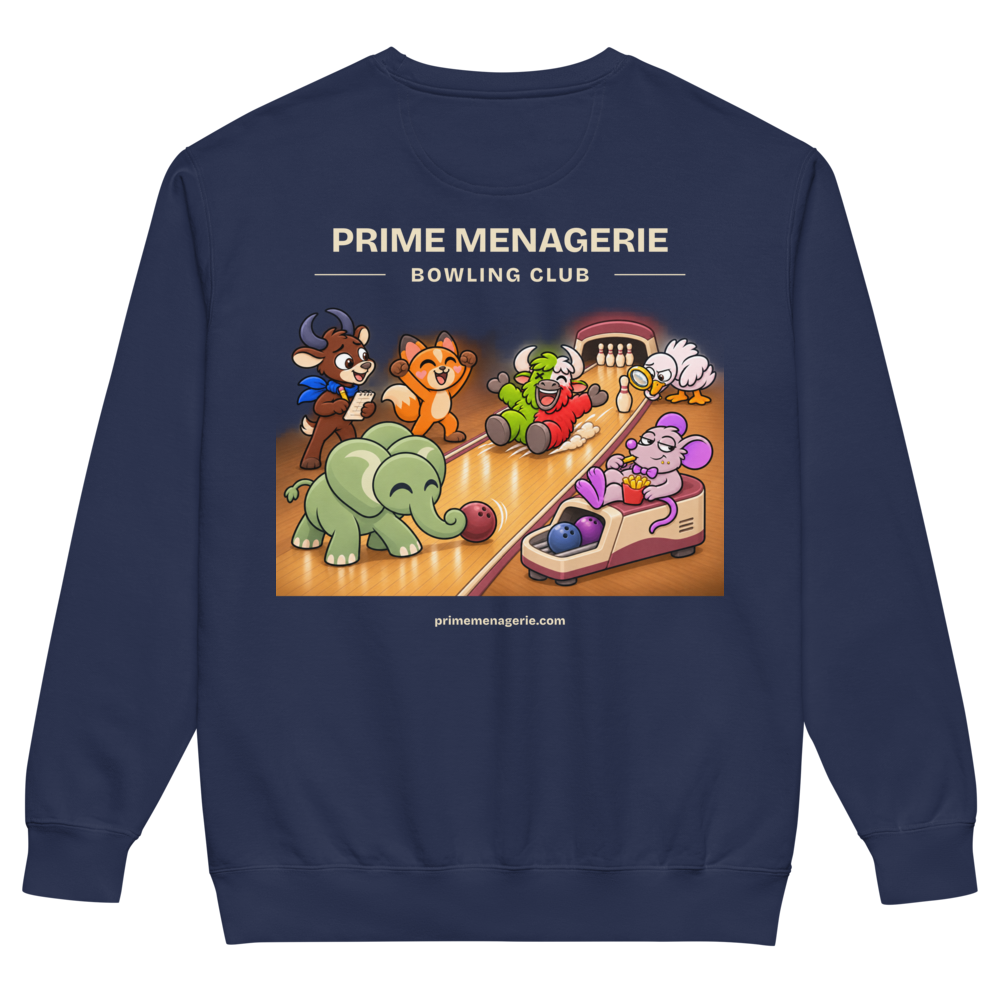
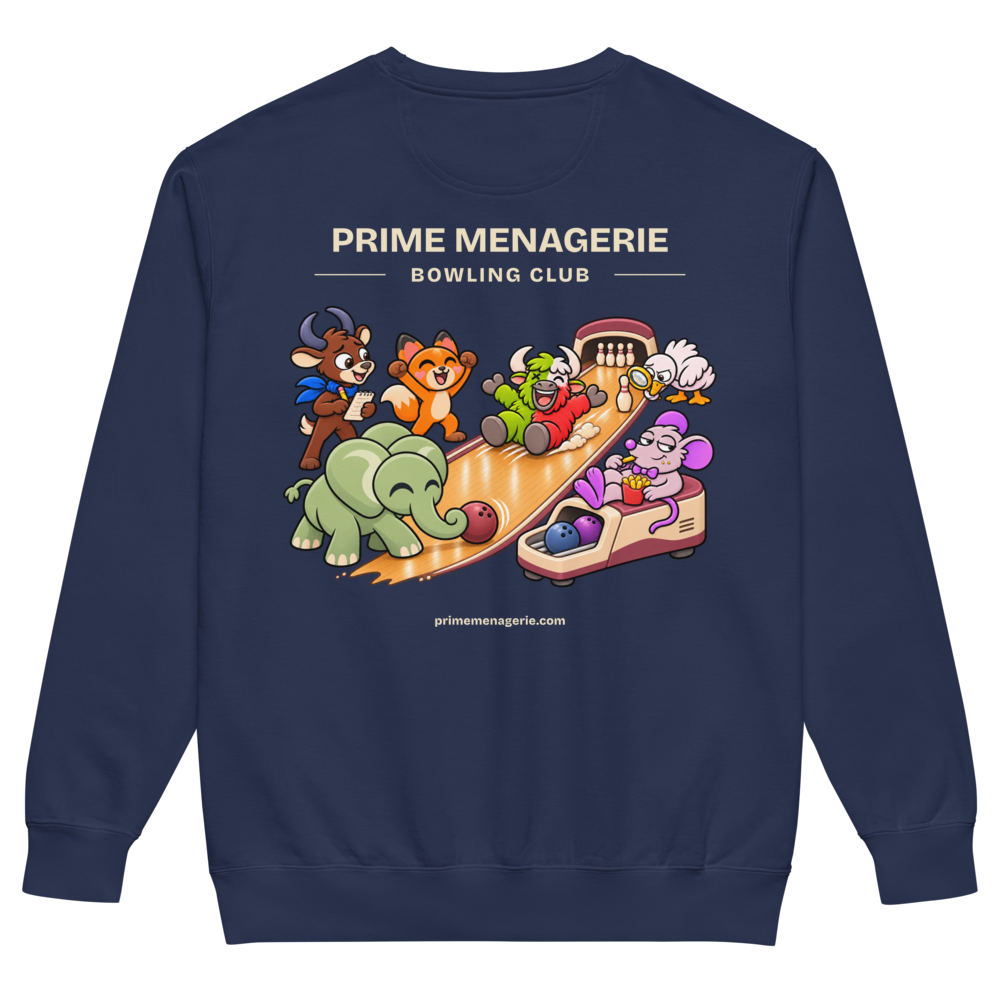
Prepare storefront previews for organic crewneck graphics

Changed region(s): [[0.279, 0.31, 0.744, 0.62]]

diff --git a/src/lib/productPages.ts b/src/lib/productPages.ts
@@ -70,7 +70,7 @@ const KINDS: Record<string, Kind> = {
   },
   menagerieCrewneck: {
     label: 'Garment-dyed crewneck sweatshirt', productType: 'Apparel > Tops > Sweatshirts', apparel: true,
-    facts: ['Comfort Colors 1566, 80% ring-spun cotton and 20% polyester', 'Heavyweight 9.5 oz/yd² fleece with a 100% cotton face', 'Relaxed fit with ribbed collar, cuffs and waistband', 'Blue Spruce, Pepper, True Navy or Butter; garment dye may vary slightly', 'Printed left-chest badge and 15-inch-wide back illustration'],
+    facts: ['Comfort Colors 1566, 80% ring-spun cotton and 20% polyester', 'Heavyweight 9.5 oz/yd² fleece with a 100% cotton face', 'Relaxed fit with ribbed collar, cuffs and waistband', 'Blue Spruce, Pepper, True Navy or Butter; garment dye may vary slightly', 'Printed left-chest badge and 15-inch-wide cutout scene on the back'],
   },
   pickleballLongSleeve: {
     label: 'Garment-dyed heavyweight long sleeve', productType: 'Apparel > Tops > Long Sleeve Shirts', apparel: true,
@@ -135,9 +135,9 @@ const FC_BACK = 'The back reads 143 (pager code for I love you) over FAR FOX FC,
 
 /** What is on each product, in a few sentences, keyed by provider product id. */
 export const PRODUCT_COPY: Record<string, string> = {
-  '490239643': 'Rooftop doubles with the whole Prime Menagerie. Antelope teams up with the elephant across the net from Foxy and Scan Yak, Goose inspects the ball, and Slab Rat takes an exceptionally relaxed umpire shift. The New York skyline glows behind the court. A small Pickleball Club badge sits on the left chest, with the full scene and primemenagerie.com across the back. Printed on a soft Comfort Colors crewneck in Blue Spruce, Pepper, True Navy or Butter.',
+  '490239643': 'Rooftop doubles with the whole Prime Menagerie. Antelope teams up with the elephant across the net from Foxy and Scan Yak, Goose inspects the ball, and Slab Rat takes an exceptionally relaxed umpire shift. The New York skyline glows behind the court. A small Pickleball Club badge sits on the left chest, with an illustrated cutout scene and primemenagerie.com across the back. Printed on a soft Comfort Colors crewneck in Blue Spruce, Pepper, True Navy or Butter.',
   '490192967': 'Rooftop doubles with the whole Prime Menagerie. Antelope teams up with the elephant across the net from Foxy and Scan Yak, Goose inspects the ball, and Slab Rat takes an exceptionally relaxed umpire shift. The New York skyline glows behind the court. A small Pickleball Club badge sits on the left chest, with the full scene and primemenagerie.com across the back. Printed on a garment-dyed Comfort Colors long sleeve in Black, Blue Jean, Navy or White.',
-  '490151911': 'Six animals, one lane, and nobody keeping a straight face. The Prime Menagerie elephant bowls with his trunk while Scan Yak slides toward the pins. Foxy celebrates early, Antelope keeps score, Goose investigates a stubborn pin, and Slab Rat eats fries on the ball return. A small Bowling Club badge sits on the left chest, with the full scene and primemenagerie.com across the back. Printed on a soft Comfort Colors crewneck in Blue Spruce, Pepper, True Navy or Butter.',
+  '490151911': 'Six animals, one lane, and nobody keeping a straight face. The Prime Menagerie elephant bowls with his trunk while Scan Yak slides toward the pins. Foxy celebrates early, Antelope keeps score, Goose investigates a stubborn pin, and Slab Rat eats fries on the ball return. A small Bowling Club badge sits on the left chest, with an illustrated cutout scene and primemenagerie.com across the back. Printed on a soft Comfort Colors crewneck in Blue Spruce, Pepper, True Navy or Butter.',
   '490092600': 'Six animals, one questionable racecar, and a trophy already claimed. Foxy takes the wheel, Scan Yak throws his hooves up, and the Prime Menagerie elephant supplies the horsepower. Antelope waves the flag, Goose inspects a wheel, and Slab Rat lounges in the prize. Bold Prime Menagerie lettering sits above the large back scene, with primemenagerie.com below and a small elephant mark on the real chest pocket. Choose White, Butter, Violet or True Navy.',
   '490057447': 'A little encouragement for cold days. The dark-brown Affirming Antelope waves from the cuff, wearing its blue scarf and leaning over a cobalt line. Full-color embroidery on a soft cuffed beanie, in Heather Grey or Navy.',
   '490057449': 'Office chair. Rodeo rules. Scan Yak rides a tiny blue desk chair backwards, one hoof in the air and a chart flying behind him. The full-body scene and SCAN YAK lettering are embroidered on the cuff, in Black or Baby Pink.',

diff --git a/design/prime-menagerie-organic-graphics/production.md b/design/prime-menagerie-organic-graphics/production.md
@@ -1,0 +1,17 @@
+# Organic club graphics — production update, 2026-11-07
+
+User approved the organic Pickleball concept and requested publication. The same cutout treatment is applied to Bowling.
+
+- Pickleball Club Crewneck: existing product 490239643.
+- Bowling Club Crewneck: existing product 490151911.
+- Both remain Comfort Colors 1566, $59, Blue Spruce / Pepper / True Navy / Butter, S–3XL (24 variants each).
+- Back placement remains `back_large_dtf`, 2250 × 2700 at 150 dpi, 15-inch print area.
+- Existing chest print-file URLs are retained exactly. Product and variant IDs are preserved.
+- New transparent scene art uses silhouettes and negative space instead of rectangular background panels. The Bowling lane stays continuous under and beyond Scan Yak.
+- Native typography and primemenagerie.com remain; cream on dark colors and forest on Butter.
+- The built-in image edit tool created the transparent scene assets. Prompts are included beside this document. Native SVG composition creates the final printer files without repainting the generated scene.
+- Source art has actual alpha transparency, verified on Butter as well as dark backgrounds. The generated image viewer may display hidden RGB outside the alpha mask; that color does not print.
+- Immutable art base: https://raw.githubusercontent.com/blakeparkinson/farfox-landing/0f11fa2/public/shop/designs/organic-clubs-2026-11
+- Existing long-sleeve, Scan Yak beanie and Halloween exclusions remain unchanged.
+
+The local `design/organic-clubs-release.json` stores the original provider records and mockup tasks for recovery. It is not committed. The release helper does not place orders.
